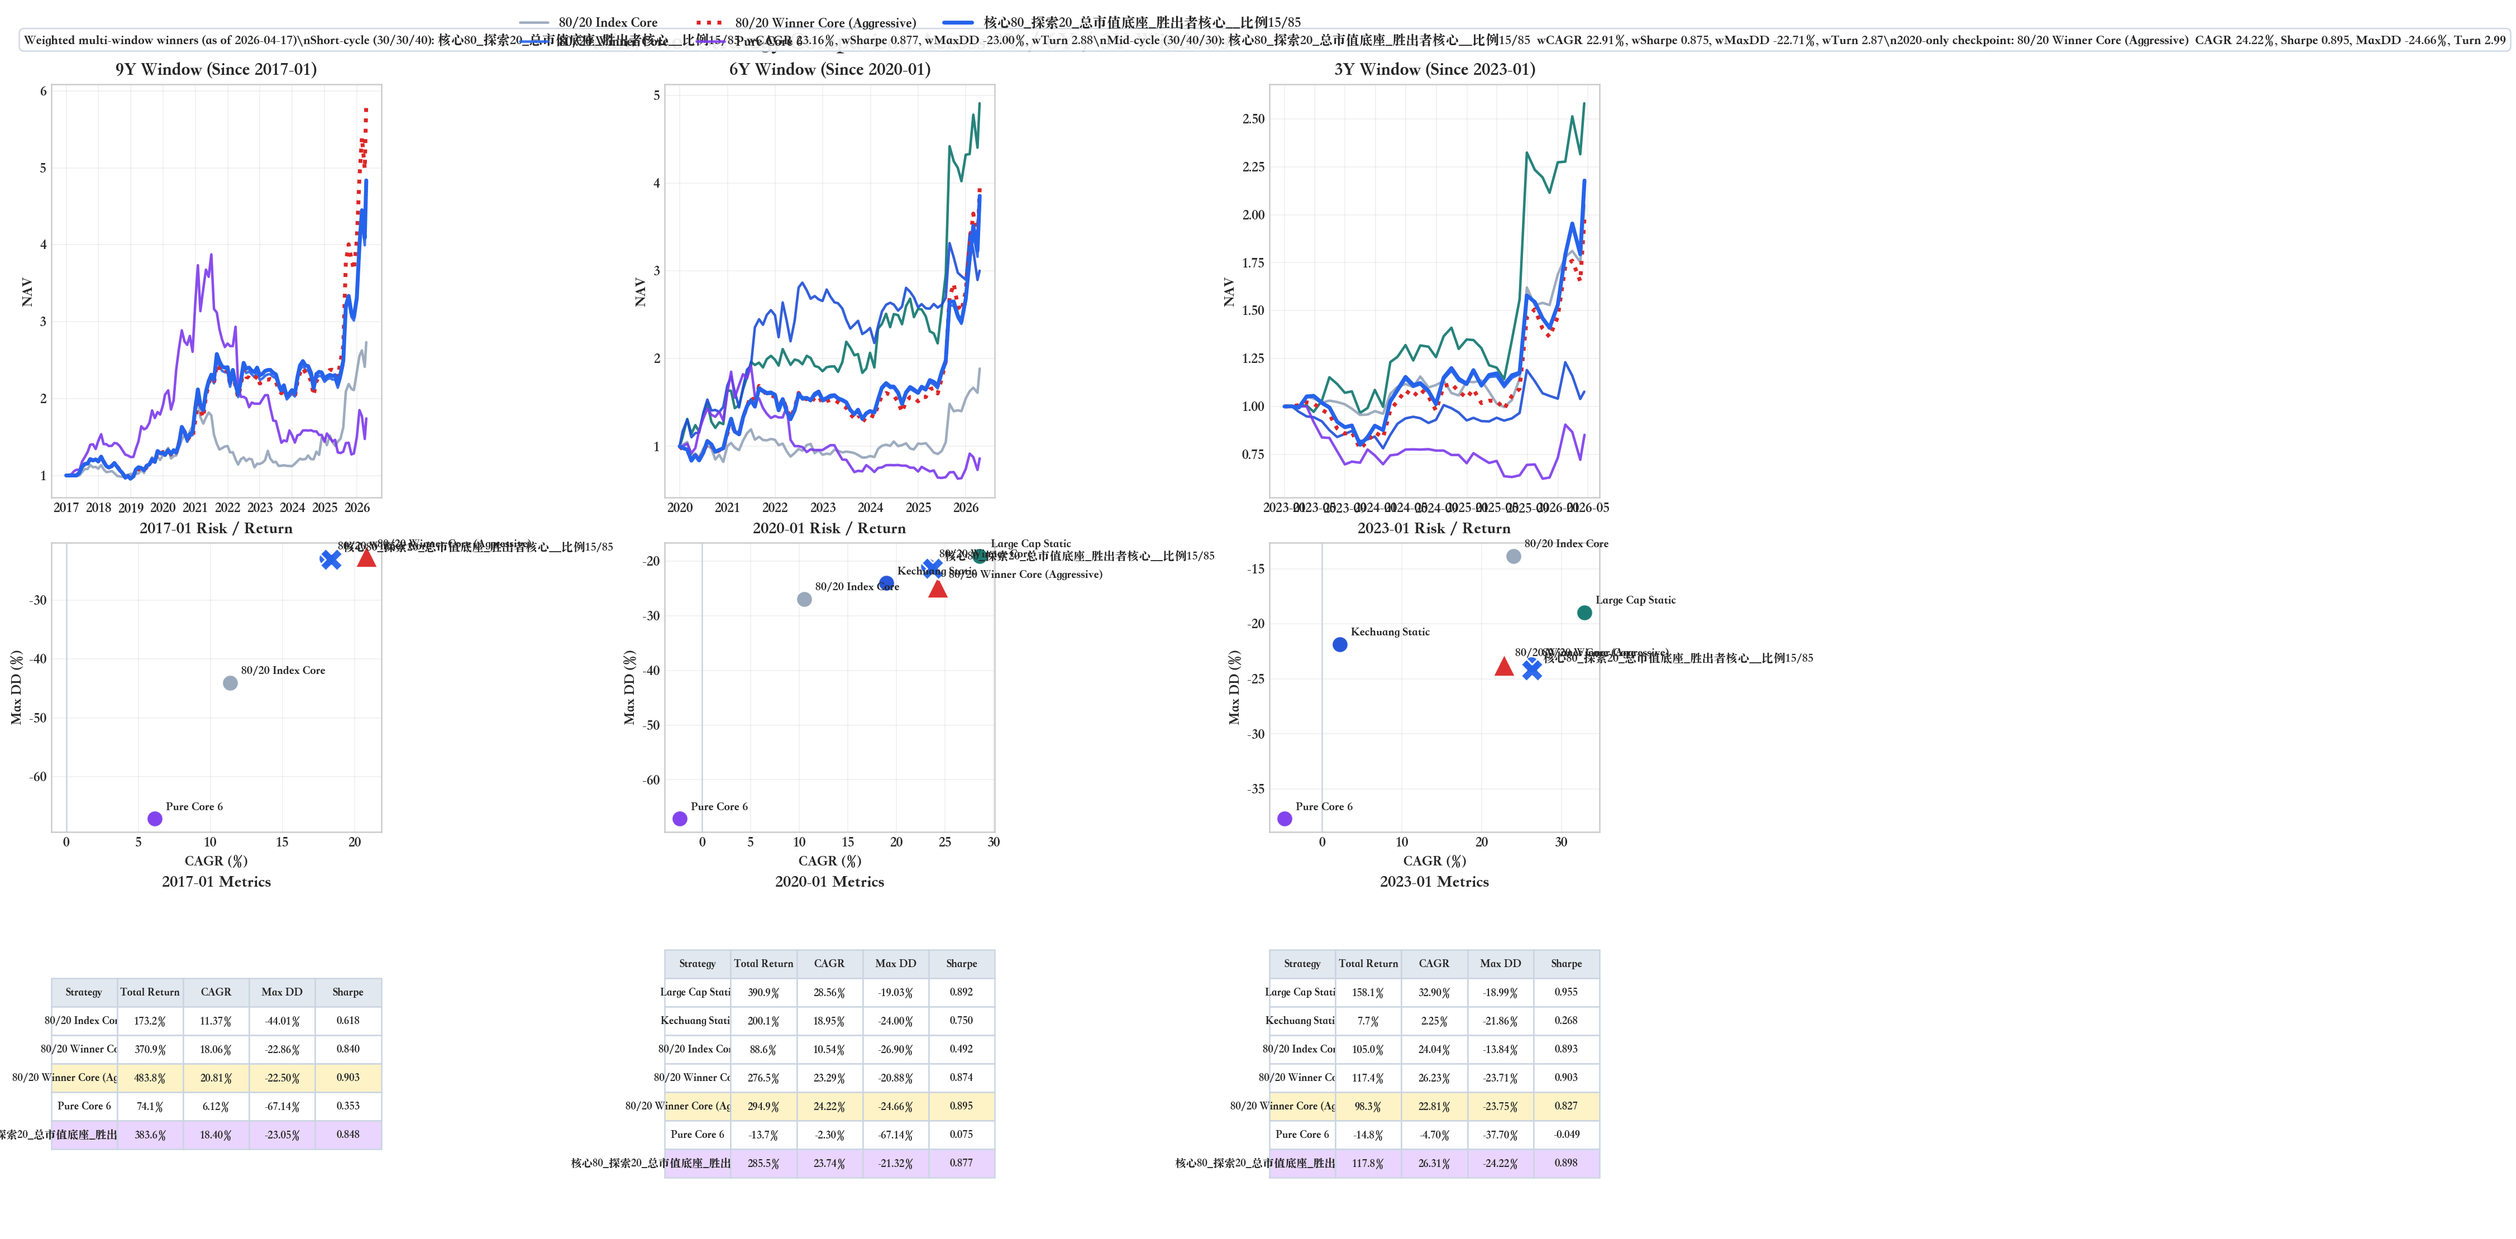
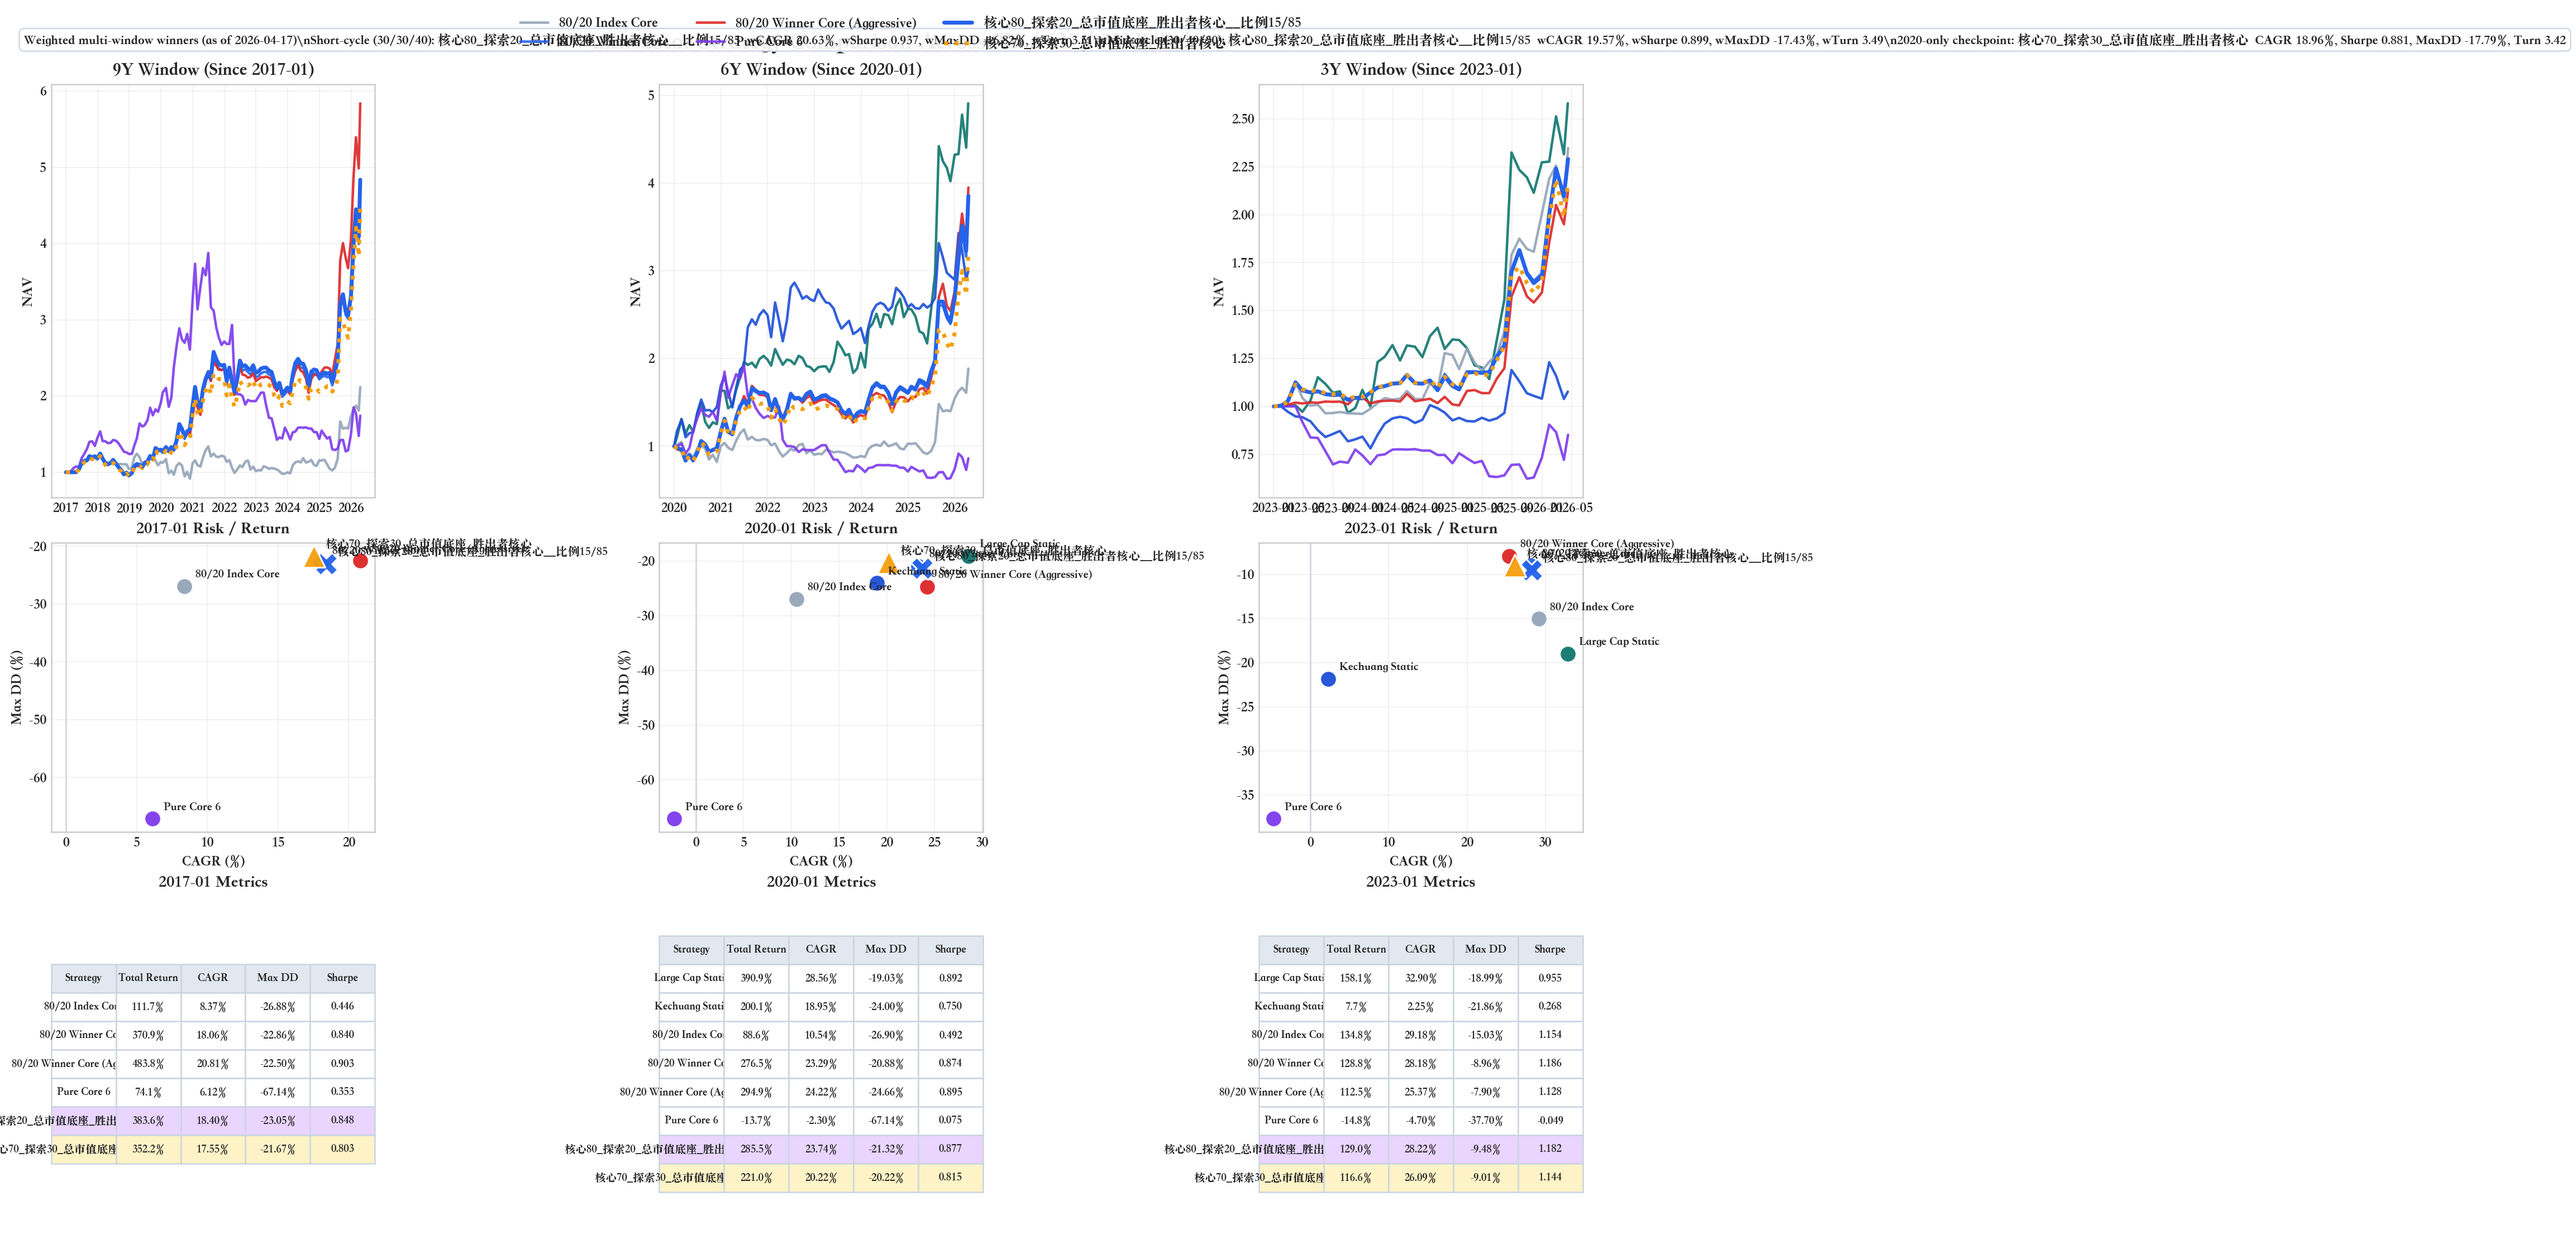
Refresh winners after rebuilding comparison

diff --git a/README.md b/README.md
@@ -31,35 +31,35 @@ This repo tracks *three winners in parallel* using weighted multi-window scoring
 ### Short-cycle Winner (30/30/40)
 
 - Strategy: `core_explore_80_20_total_mv_winner_core__share_15_85_hold_4_6` (核心80_探索20_总市值底座_胜出者核心__比例15/85)
-- Weighted (CAGR / Sharpe / Max DD / Turnover): `23.16%` / `0.8767` / `-23.00%` / `2.88`
+- Weighted (CAGR / Sharpe / Max DD / Turnover): `20.63%` / `0.9371` / `-16.82%` / `3.51`
 
 Window metrics (as of `2026-04-17`, weights: 2017-01=30%, 2020-01=30%, 2023-01=40%):
 
-- `2017-01-01` → `2026-04-17`: CAGR `18.40%`, Max DD `-23.05%`, Sharpe `0.8484`
-- `2020-01-01` → `2026-04-17`: CAGR `23.74%`, Max DD `-21.32%`, Sharpe `0.8772`
-- `2023-01-01` → `2026-04-17`: CAGR `26.31%`, Max DD `-24.22%`, Sharpe `0.8976`
+- `2017-01-01` → `2026-04-17`: CAGR `13.56%`, Max DD `-27.88%`, Sharpe `0.7457`
+- `2020-01-01` → `2026-04-17`: CAGR `17.58%`, Max DD `-15.56%`, Sharpe `0.8026`
+- `2023-01-01` → `2026-04-17`: CAGR `28.22%`, Max DD `-9.48%`, Sharpe `1.1816`
 
 ### Mid-cycle Winner (30/40/30)
 
 - Strategy: `core_explore_80_20_total_mv_winner_core__share_15_85_hold_4_6` (核心80_探索20_总市值底座_胜出者核心__比例15/85)
-- Weighted (CAGR / Sharpe / Max DD / Turnover): `22.91%` / `0.8747` / `-22.71%` / `2.87`
+- Weighted (CAGR / Sharpe / Max DD / Turnover): `19.57%` / `0.8992` / `-17.43%` / `3.49`
 
 Window metrics (as of `2026-04-17`, weights: 2017-01=30%, 2020-01=40%, 2023-01=30%):
 
-- `2017-01-01` → `2026-04-17`: CAGR `18.40%`, Max DD `-23.05%`, Sharpe `0.8484`
-- `2020-01-01` → `2026-04-17`: CAGR `23.74%`, Max DD `-21.32%`, Sharpe `0.8772`
-- `2023-01-01` → `2026-04-17`: CAGR `26.31%`, Max DD `-24.22%`, Sharpe `0.8976`
+- `2017-01-01` → `2026-04-17`: CAGR `13.56%`, Max DD `-27.88%`, Sharpe `0.7457`
+- `2020-01-01` → `2026-04-17`: CAGR `17.58%`, Max DD `-15.56%`, Sharpe `0.8026`
+- `2023-01-01` → `2026-04-17`: CAGR `28.22%`, Max DD `-9.48%`, Sharpe `1.1816`
 
 ### 2020-Window Winner (2020-only checkpoint)
 
-- Strategy: `core_explore_80_20_total_mv_winner_core__aggr_10_90_fast_ramp` (核心80_探索20_总市值底座_胜出者核心__进攻10/90 快速加仓)
-- Weighted (CAGR / Sharpe / Max DD / Turnover): `24.22%` / `0.8950` / `-24.66%` / `2.99`
+- Strategy: `core_explore_70_30_total_mv_winner_core` (核心70_探索30_总市值底座_胜出者核心)
+- Weighted (CAGR / Sharpe / Max DD / Turnover): `18.96%` / `0.8811` / `-17.79%` / `3.42`
 
 Window metrics (as of `2026-04-17`, weights: 2020-01=100%):
 
-- `2017-01-01` → `2026-04-17`: CAGR `20.81%`, Max DD `-22.50%`, Sharpe `0.9028`
-- `2020-01-01` → `2026-04-17`: CAGR `24.22%`, Max DD `-24.66%`, Sharpe `0.8950`
-- `2023-01-01` → `2026-04-17`: CAGR `22.81%`, Max DD `-23.75%`, Sharpe `0.8270`
+- `2017-01-01` → `2026-04-17`: CAGR `13.63%`, Max DD `-25.67%`, Sharpe `0.7726`
+- `2020-01-01` → `2026-04-17`: CAGR `18.96%`, Max DD `-17.79%`, Sharpe `0.8811`
+- `2023-01-01` → `2026-04-17`: CAGR `26.09%`, Max DD `-9.01%`, Sharpe `1.1437`
 
 <!-- AUTO:WEIGHTED-WINNERS:END -->
 
@@ -74,7 +74,7 @@ This strategy uses:
 - forward-adjusted prices
 - market-cap base weights
 - winner promotion from explore/seed into core
-- more aggressive winner-core allocation (stable/promoted ≈ 10%/90%) with faster ramp for newly promoted names
+- winner-core allocation tuned per track (current weighted winner: stable/promoted ≈ 15%/85%, holdings 4/6, ramp {1:1.00})
 - realistic buy/sell commissions and stamp duty
 
 ## Strategy Structure
